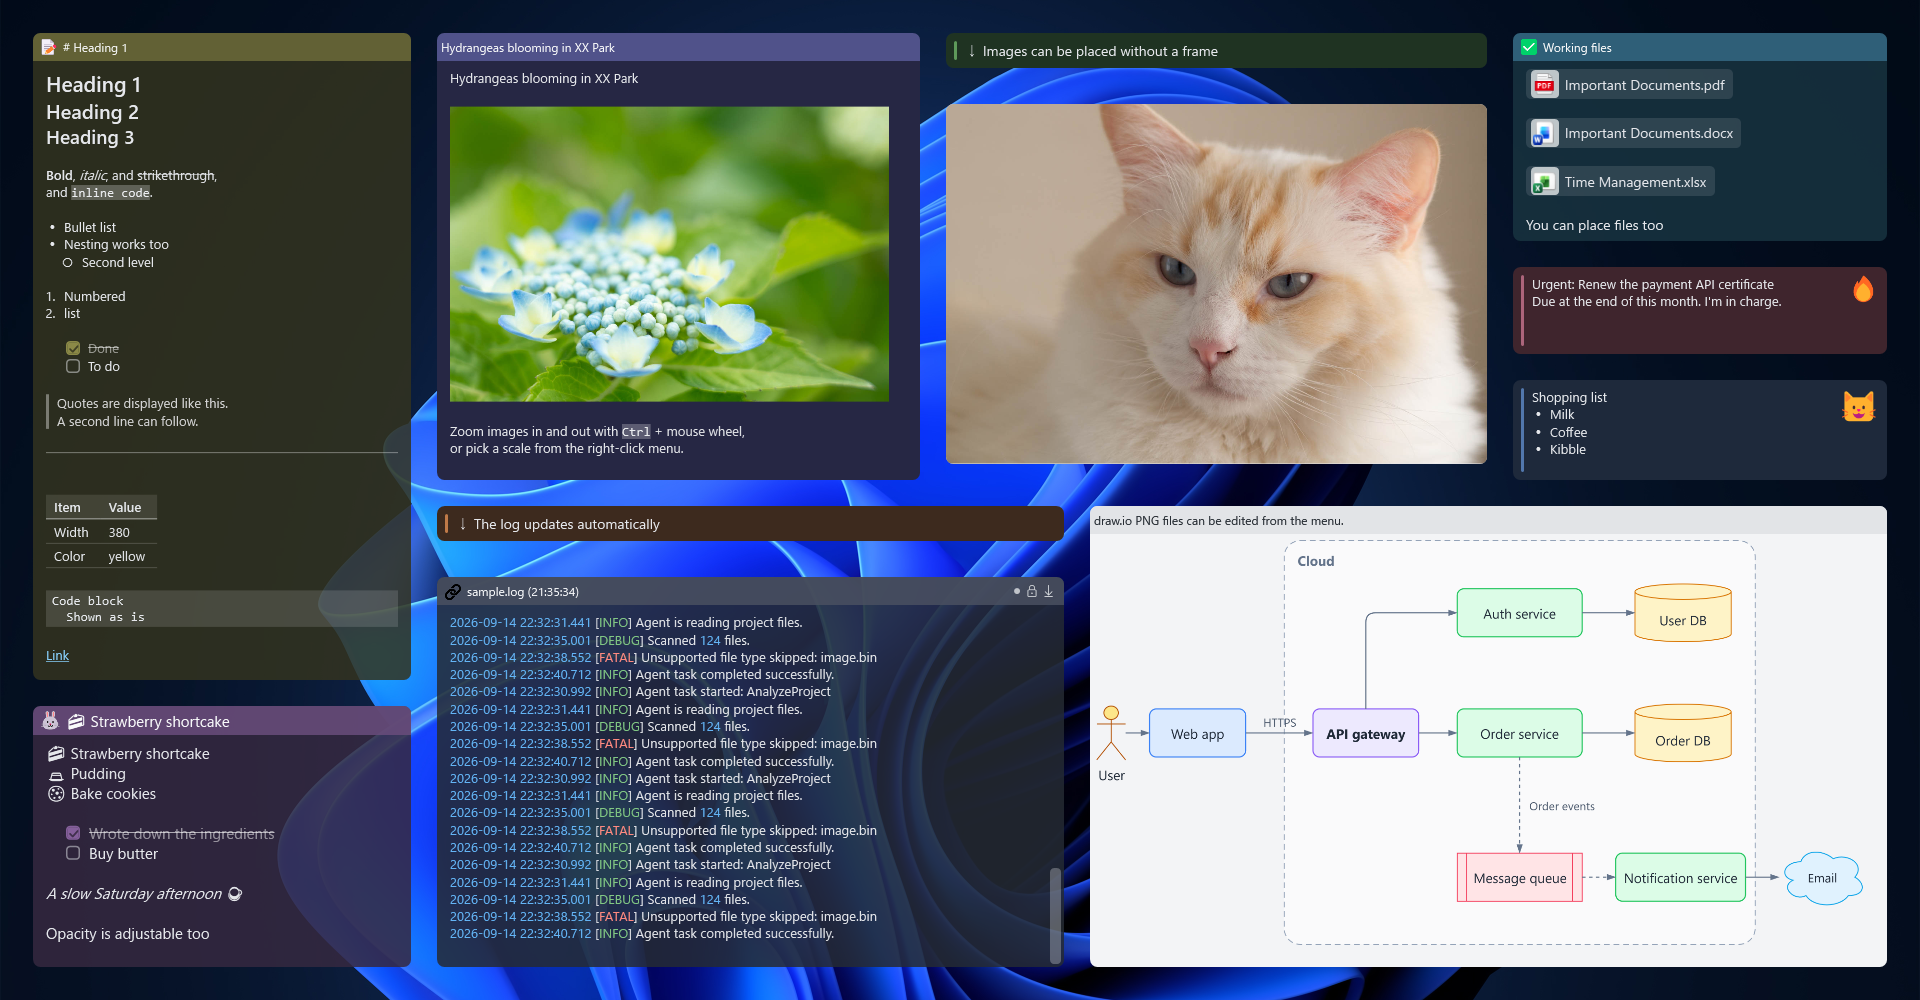
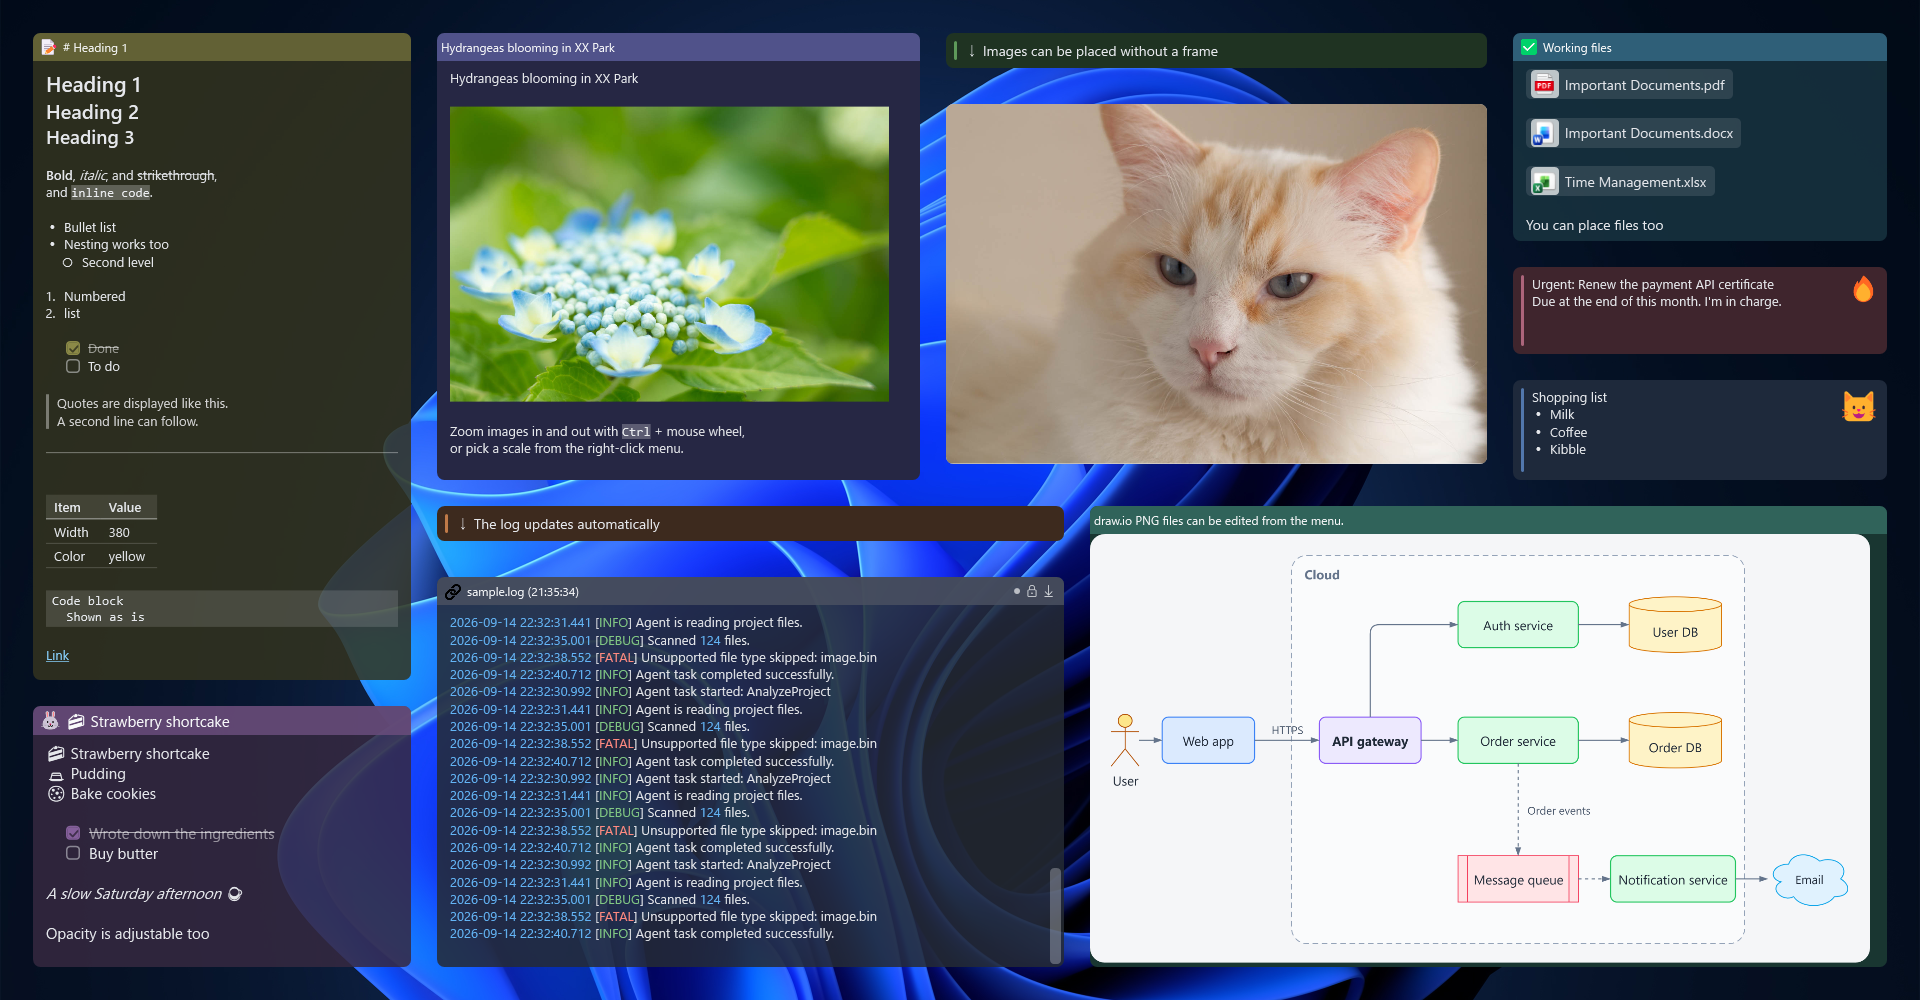
Put draw.io diagrams on a light plate in dark notes
A diagram exported with a transparent background keeps draw.io's dark
lines and text, which sink into a dark note. On dark notes such diagrams
are now drawn on a rounded, near-white plate with a little padding. The
diagram's colours are unchanged; photos, opaque PNGs and light notes are
left as they were. The README dark screenshots and the guides show it.

Changed region(s): [[0.5625, 0.496, 1.0, 0.961], [0.5625, 0.682, 0.9062, 0.775], [0.5625, 0.961, 0.9688, 0.992]]

diff --git a/src/Services/DiagramPlate.cs b/src/Services/DiagramPlate.cs
@@ -1,0 +1,85 @@
+// ScreenPinNotes - a desktop sticky notes app for Windows 11
+// Copyright (C) 2026 umineko73
+//
+// This program is free software: you can redistribute it and/or modify
+// it under the terms of the GNU General Public License as published by
+// the Free Software Foundation, version 3 of the License.
+//
+// This program is distributed in the hope that it will be useful,
+// but WITHOUT ANY WARRANTY; without even the implied warranty of
+// MERCHANTABILITY or FITNESS FOR A PARTICULAR PURPOSE.  See the
+// GNU General Public License for more details.
+//
+// You should have received a copy of the GNU General Public License
+// along with this program.  If not, see <https://www.gnu.org/licenses/>.
+
+using System.Windows;
+using System.Windows.Media;
+using System.Windows.Media.Imaging;
+using Color = System.Windows.Media.Color;
+
+namespace ScreenPinNotes.Services;
+
+/// <summary>
+/// 暗い付箋に貼った draw.io の図の後ろに敷く、明るい台紙。
+/// </summary>
+/// <remarks>
+/// draw.io の図は白い紙の上で描く前提の色（黒い線と文字）でできている。背景を透明にして
+/// 書き出した PNG を暗い付箋にそのまま置くと、線と文字が地に沈んで読めない。そこで、
+/// 図のまわりに少し余白を取った角の丸い台紙を描き、その上に図を重ねた画像を作る。
+/// 図の色は変えない。背景の付いた（透明なところのない）PNG はそのまま使う。
+/// </remarks>
+public static class DiagramPlate
+{
+    /// <summary>台紙の色。真っ白だと暗い付箋の中でまぶしいので、ごく薄い灰色にする。</summary>
+    public static readonly Color PlateColor = Color.FromRgb(0xF5, 0xF6, 0xF8);
+
+    private const int MinPadding = 8;
+    private const int MaxPadding = 32;
+
+    /// <summary>台紙の余白（ピクセル）。図の短い辺の 4% を、8〜32 に収める。</summary>
+    public static int PaddingFor(int pixelWidth, int pixelHeight)
+        => Math.Clamp((int)Math.Round(Math.Min(pixelWidth, pixelHeight) * 0.04), MinPadding, MaxPadding);
+
+    /// <summary>
+    /// 縁に透けているところがあるか。四隅と各辺の中ほどを見る。draw.io は図の外側を
+    /// 塗らないので、透明で書き出した図なら縁は透けている。
+    /// </summary>
+    public static bool HasTransparentEdge(BitmapSource source)
+    {
+        if (source.PixelWidth <= 0 || source.PixelHeight <= 0) return false;
+        var bgra = source.Format == PixelFormats.Bgra32 || source.Format == PixelFormats.Pbgra32
+            ? source
+            : new FormatConvertedBitmap(source, PixelFormats.Bgra32, null, 0);
+        int right = source.PixelWidth - 1, bottom = source.PixelHeight - 1;
+        int midX = right / 2, midY = bottom / 2;
+        var pixel = new byte[4];
+        foreach (var (x, y) in new[] { (0, 0), (right, 0), (0, bottom), (right, bottom), (midX, 0), (midX, bottom), (0, midY), (right, midY) })
+        {
+            bgra.CopyPixels(new Int32Rect(x, y, 1, 1), pixel, 4, 0);
+            if (pixel[3] < 250) return true;
+        }
+        return false;
+    }
+
+    /// <summary>台紙に図を載せた画像。大きさは図に余白を足したもの（ピクセル単位で同じ比率）。</summary>
+    public static BitmapSource Compose(BitmapSource source)
+    {
+        int w = source.PixelWidth, h = source.PixelHeight;
+        var pad = PaddingFor(w, h);
+        int width = w + pad * 2, height = h + pad * 2;
+        var visual = new DrawingVisual();
+        using (var dc = visual.RenderOpen())
+        {
+            var plate = new SolidColorBrush(PlateColor);
+            plate.Freeze();
+            dc.DrawRoundedRectangle(plate, null, new Rect(0, 0, width, height), pad, pad);
+            // 96 DPI で描くので 1 DIP = 1 ピクセル。元の DPI に関係なくピクセルの大きさで置く。
+            dc.DrawImage(source, new Rect(pad, pad, w, h));
+        }
+        var bitmap = new RenderTargetBitmap(width, height, 96, 96, PixelFormats.Pbgra32);
+        bitmap.Render(visual);
+        bitmap.Freeze();
+        return bitmap;
+    }
+}

diff --git a/tests/ScreenPinNotes.Tests/DiagramPlateTests.cs b/tests/ScreenPinNotes.Tests/DiagramPlateTests.cs
@@ -1,0 +1,90 @@
+// ScreenPinNotes - a desktop sticky notes app for Windows 11
+// Copyright (C) 2026 umineko73
+//
+// This program is free software: you can redistribute it and/or modify
+// it under the terms of the GNU General Public License as published by
+// the Free Software Foundation, version 3 of the License.
+//
+// This program is distributed in the hope that it will be useful,
+// but WITHOUT ANY WARRANTY; without even the implied warranty of
+// MERCHANTABILITY or FITNESS FOR A PARTICULAR PURPOSE.  See the
+// GNU General Public License for more details.
+//
+// You should have received a copy of the GNU General Public License
+// along with this program.  If not, see <https://www.gnu.org/licenses/>.
+
+using System.Windows;
+using System.Windows.Media;
+using System.Windows.Media.Imaging;
+using ScreenPinNotes.Services;
+using Color = System.Windows.Media.Color;
+using Colors = System.Windows.Media.Colors;
+
+namespace ScreenPinNotes.Tests;
+
+/// <summary>暗い付箋で draw.io の図の後ろに敷く台紙。</summary>
+public sealed class DiagramPlateTests
+{
+    // 余白は図の短い辺の 4%。小さな図でも 8px、大きな図でも 32px に収める。
+    [Theory]
+    [InlineData(100, 100, 8)]
+    [InlineData(400, 300, 12)]
+    [InlineData(1600, 800, 32)]
+    [InlineData(4000, 3000, 32)]
+    public void PaddingFor_ScalesWithTheShortSideWithinLimits(int width, int height, int expected)
+        => Assert.Equal(expected, DiagramPlate.PaddingFor(width, height));
+
+    // 透明で書き出した図は縁が透けている。背景を付けて書き出した図は透けていない。
+    [WpfFact]
+    public void HasTransparentEdge_TellsTransparentExportsFromOpaqueOnes()
+    {
+        Assert.True(DiagramPlate.HasTransparentEdge(Solid(40, 30, 0, 0, 0, 0)));
+        Assert.False(DiagramPlate.HasTransparentEdge(Solid(40, 30, 255, 255, 255, 255)));
+        // 真ん中にだけ描いてあり、縁が透けている図。
+        Assert.True(DiagramPlate.HasTransparentEdge(WithOpaqueCenter(40, 30)));
+    }
+
+    // 台紙の分だけ大きくなり、図は余白の内側にそのまま載る。余白には台紙の色が敷かれる。
+    [WpfFact]
+    public void Compose_PutsTheDiagramOnALightPlateWithPadding()
+    {
+        var source = Solid(200, 100, 0, 0, 0, 255);   // 黒一色の図
+        var pad = DiagramPlate.PaddingFor(200, 100);
+
+        var plated = DiagramPlate.Compose(source);
+
+        Assert.Equal(200 + pad * 2, plated.PixelWidth);
+        Assert.Equal(100 + pad * 2, plated.PixelHeight);
+        Assert.Equal(Colors.Black, PixelAt(plated, pad + 100, pad + 50));
+        Assert.Equal(DiagramPlate.PlateColor, PixelAt(plated, pad / 2, plated.PixelHeight / 2));
+        // 角は丸めてあるので、いちばん端の点は透けている。
+        Assert.Equal(0, PixelAt(plated, 0, 0).A);
+    }
+
+    private static BitmapSource Solid(int width, int height, byte b, byte g, byte r, byte a)
+    {
+        var pixels = new byte[width * height * 4];
+        for (var i = 0; i < pixels.Length; i += 4)
+        {
+            pixels[i] = b; pixels[i + 1] = g; pixels[i + 2] = r; pixels[i + 3] = a;
+        }
+        return BitmapSource.Create(width, height, 96, 96, PixelFormats.Bgra32, null, pixels, width * 4);
+    }
+
+    private static BitmapSource WithOpaqueCenter(int width, int height)
+    {
+        var pixels = new byte[width * height * 4];
+        for (var y = height / 4; y < height * 3 / 4; y++)
+            for (var x = width / 4; x < width * 3 / 4; x++)
+                pixels[(y * width + x) * 4 + 3] = 255;
+        return BitmapSource.Create(width, height, 96, 96, PixelFormats.Bgra32, null, pixels, width * 4);
+    }
+
+    private static Color PixelAt(BitmapSource bitmap, int x, int y)
+    {
+        var bgra = new FormatConvertedBitmap(bitmap, PixelFormats.Bgra32, null, 0);
+        var p = new byte[4];
+        bgra.CopyPixels(new Int32Rect(x, y, 1, 1), p, 4, 0);
+        return Color.FromArgb(p[3], p[2], p[1], p[0]);
+    }
+}

diff --git a/tests/ScreenPinNotes.Tests/StickyNoteWindowTests.cs b/tests/ScreenPinNotes.Tests/StickyNoteWindowTests.cs
@@ -5740,6 +5740,50 @@ public class StickyNoteWindowTests
         }
     }
 
+    /// <summary>
+    /// 暗い付箋では、背景の透けた draw.io の図にだけ明るい台紙を敷く（台紙の分だけ画像が大きくなる）。
+    /// ふつうの画像と、明るい付箋の図はそのまま。
+    /// </summary>
+    [WpfTheory]
+    [InlineData("dark-charcoal", true)]
+    [InlineData("yellow", false)]
+    public void DrawioDiagram_GetsALightPlateOnlyOnDarkNotes(string colorKey, bool plated)
+    {
+        EnsureApplication();
+        using var temp = new TempDataDirectory();
+        var storage = new StorageService(temp.Path);
+        var note = new StickyNote
+        {
+            ColorKey = colorKey, Width = 400, Height = 300,
+            Content = "![zu](assets/zu.png)\n\n![photo](assets/photo.png)",
+        };
+        var assetsDir = storage.GetNoteAssetsDirectoryPath(note.Id);
+        Directory.CreateDirectory(assetsDir);
+        SaveDrawioPng(System.IO.Path.Combine(assetsDir, "zu.png"), TransparentBitmap(120, 60));
+        SavePng(System.IO.Path.Combine(assetsDir, "photo.png"), TransparentBitmap(80, 40));
+        var window = new StickyNoteWindow(new StickyNoteViewModel(note, new AppSettings()), storage);
+        try
+        {
+            window.Show();
+            InvokePrivate(window, "LoadContent", note.Content);
+            var contentBox = Assert.IsType<RichTextBox>(window.FindName("ContentBox"));
+            var widths = EnumerateImages(contentBox.Document)
+                .Select(image => ((System.Windows.Media.Imaging.BitmapSource)image.Source).PixelWidth).ToList();
+
+            var pad = DiagramPlate.PaddingFor(120, 60);
+            Assert.Equal(plated ? 120 + pad * 2 : 120, widths[0]);
+            Assert.Equal(80, widths[1]);
+        }
+        finally
+        {
+            window.Close();
+        }
+
+        static System.Windows.Media.Imaging.BitmapSource TransparentBitmap(int width, int height)
+            => System.Windows.Media.Imaging.BitmapSource.Create(width, height, 96, 96,
+                System.Windows.Media.PixelFormats.Bgra32, null, new byte[width * height * 4], width * 4);
+    }
+
     /// <summary>draw.io が書き出すのと同じく、IHDR の直後に図の入った tEXt を挟んだ PNG を書く。</summary>
     private static void SaveDrawioPng(string path, System.Windows.Media.Imaging.BitmapSource bitmap)
     {

diff --git a/src/Views/StickyNoteWindow.Content.cs b/src/Views/StickyNoteWindow.Content.cs
@@ -652,6 +652,24 @@ public partial class StickyNoteWindow
         return loaded;
     }
 
+    /// <summary>
+    /// 暗い付箋に貼った、背景の透けた draw.io の図には明るい台紙を敷く（<see cref="DiagramPlate"/>）。
+    /// それ以外の画像はそのまま返す。図かどうかの判定と合成は、元画像と同じく更新日時込みで覚える。
+    /// </summary>
+    private System.Windows.Media.Imaging.BitmapSource GetOrCreateDiagramPlate(
+        string imagePath, System.Windows.Media.Imaging.BitmapSource bitmap)
+    {
+        var writeTimeUtc = File.GetLastWriteTimeUtc(imagePath);
+        if (_diagramPlateCache.TryGetValue(imagePath, out var cached) && cached.WriteTimeUtc == writeTimeUtc)
+            return cached.Bitmap ?? bitmap;
+
+        var plated = DrawioFiles.IsDiagram(imagePath) && DiagramPlate.HasTransparentEdge(bitmap)
+            ? DiagramPlate.Compose(bitmap)
+            : null;
+        _diagramPlateCache[imagePath] = (writeTimeUtc, plated);
+        return plated ?? bitmap;
+    }
+
     private Inline CreateMarkdownImage(MarkdownRenderer.MarkdownImage markdownImage)
     {
         var fallback = CreateMarkdownImageFallback(markdownImage);
@@ -673,6 +691,8 @@ public partial class StickyNoteWindow
             if (!File.Exists(imagePath))
                 return fallback;
             bitmap = GetOrLoadNormalizedImage(imagePath);
+            if (ViewModel.UsesDarkNoteColors)
+                bitmap = GetOrCreateDiagramPlate(imagePath, bitmap);
         }
         catch (Exception ex)
         {

diff --git a/src/Views/StickyNoteWindow.xaml.cs b/src/Views/StickyNoteWindow.xaml.cs
@@ -117,6 +117,8 @@ public partial class StickyNoteWindow : Window
     private double     _paneScrollStartVerticalOffset;
     private readonly Dictionary<WpfImage, MarkdownImageContext> _markdownImageContexts = [];
     private readonly Dictionary<string, (DateTime WriteTimeUtc, System.Windows.Media.Imaging.BitmapSource Bitmap)> _normalizedImageCache = [];
+    // 暗い付箋で draw.io の図に台紙を敷いた画像。図でない・透けていない画像は null（台紙なし）として覚える。
+    private readonly Dictionary<string, (DateTime WriteTimeUtc, System.Windows.Media.Imaging.BitmapSource? Bitmap)> _diagramPlateCache = [];
     private readonly Stack<ContentUndoEntry> _contentUndoStack = [];
     private WrapPanel? _colorPanel;
 

diff --git a/src/Views/StickyNoteWindow.ReferencedFiles.cs b/src/Views/StickyNoteWindow.ReferencedFiles.cs
@@ -90,6 +90,7 @@ public partial class StickyNoteWindow
         if (_isClosed) return;
         // 同じ更新日時で置換された画像も、変更通知が来たら読み直す。
         _normalizedImageCache.Clear();
+        _diagramPlateCache.Clear();
         if (_isEditMode || ViewModel.IsFolded) return;
         var x = ContentBox.HorizontalOffset;
         var y = ContentBox.VerticalOffset;

diff --git a/docs/guide.ja.md b/docs/guide.ja.md
@@ -126,7 +126,7 @@
 - 指しているファイルが無くなっているときは、札に取り消し線を引いて知らせます。
 - 画像の右クリックからコピーできます。**画像をコピー** は絵として渡すので Word やチャットにそのまま貼れ（透明も保ちます）、**画像ファイルをコピー** はファイルそのものを渡すのでエクスプローラーやメールの添付に貼れます。
 - 画像は右クリックまたは `Ctrl`＋ホイールで20〜200%に調整できます。
-- draw.io で作った図（図面を埋め込んだ PNG）を貼っているときは、右クリックの先頭に **draw.io で編集** が出ます。draw.io で保存すると、付箋の絵も自動で新しい図に入れ替わります（付箋を開いたままで構いません）。それ以外の画像や札のファイルは既定では監視せず、新しい絵は付箋を次に表示したときに反映されます。これらも監視するには `settings.json` に `"WatchReferencedFiles": true` を書きます。`.drawio` ファイルを置いた札にも同じ項目が出ます。draw.io の場所は自動で探します。見つからないときは `settings.json` の `DrawioPath` で指定します。
+- draw.io で作った図（図面を埋め込んだ PNG）を貼っているときは、右クリックの先頭に **draw.io で編集** が出ます。draw.io で保存すると、付箋の絵も自動で新しい図に入れ替わります（付箋を開いたままで構いません）。それ以外の画像や札のファイルは既定では監視せず、新しい絵は付箋を次に表示したときに反映されます。これらも監視するには `settings.json` に `"WatchReferencedFiles": true` を書きます。`.drawio` ファイルを置いた札にも同じ項目が出ます。draw.io の場所は自動で探します。見つからないときは `settings.json` の `DrawioPath` で指定します。背景を透明にして書き出した図は、暗い色の付箋では明るい台紙に載せて表示し、黒い線や文字が地に沈まないようにします（図の色は変えません）。
 - Excel表の貼り付け・コピーは右クリックメニューから行えます。画像の貼り付けにも対応します。
 - 大きすぎる文書や深い入れ子は、内容を失わず原文表示に切り替えます。
 

diff --git a/docs/guide.md b/docs/guide.md
@@ -126,7 +126,7 @@ Use the mini toolbar for colors, fonts, and icons. Unavailable actions are disab
 - A chip whose file is gone is shown with a line through its name.
 - Copy an image from its context menu. **Copy image** hands over the picture itself, ready to paste into Word or a chat (transparency included), while **Copy image file** hands over the file, ready to paste into Explorer or attach to mail.
 - Resize images between 20% and 200% using their context menu or `Ctrl` + wheel.
-- A diagram drawn in draw.io (a PNG with the diagram embedded in it) gets **Edit in draw.io** at the top of its context menu. Saving in draw.io redraws the picture in the note straight away, with the note left open. Other images and chips are not watched by default (the new picture appears the next time the note is shown); set `"WatchReferencedFiles": true` in `settings.json` to watch them too. A chip holding a `.drawio` file offers the same item. draw.io is located automatically; set `DrawioPath` in `settings.json` if it is somewhere unusual.
+- A diagram drawn in draw.io (a PNG with the diagram embedded in it) gets **Edit in draw.io** at the top of its context menu. Saving in draw.io redraws the picture in the note straight away, with the note left open. Other images and chips are not watched by default (the new picture appears the next time the note is shown); set `"WatchReferencedFiles": true` in `settings.json` to watch them too. A chip holding a `.drawio` file offers the same item. draw.io is located automatically; set `DrawioPath` in `settings.json` if it is somewhere unusual. On a dark note, a diagram exported with a transparent background sits on a light plate so its dark lines and text stay readable (the diagram's colors are unchanged).
 - Use the context menu to paste/copy Excel tables. Pasting images is also supported.
 - Very large documents or deeply nested formatting fall back to source text without discarding content.
 

diff --git a/README.md b/README.md
@@ -18,9 +18,9 @@ A Markdown note, a checklist with attached files, photos, a draw.io diagram, and
 
 ### Dark mode
 
-A darker palette for your desktop, including notes that display only an image. Notes switch to their paired dark colors, while the draw.io diagram keeps a light color so the drawing stays readable. Change the theme and interface language in Settings.
+A darker palette for your desktop, including notes that display only an image. Notes switch to their paired dark colors, and a draw.io diagram with a transparent background sits on a light plate so the drawing stays readable. Change the theme and interface language in Settings.
 
-![English dark mode showing the same notes in dark colors with light text, and the draw.io diagram note kept light](docs/note_dark_en.png)
+![English dark mode showing the same notes in dark colors with light text, with the draw.io diagram on a light plate](docs/note_dark_en.png)
 
 ## Features
 
